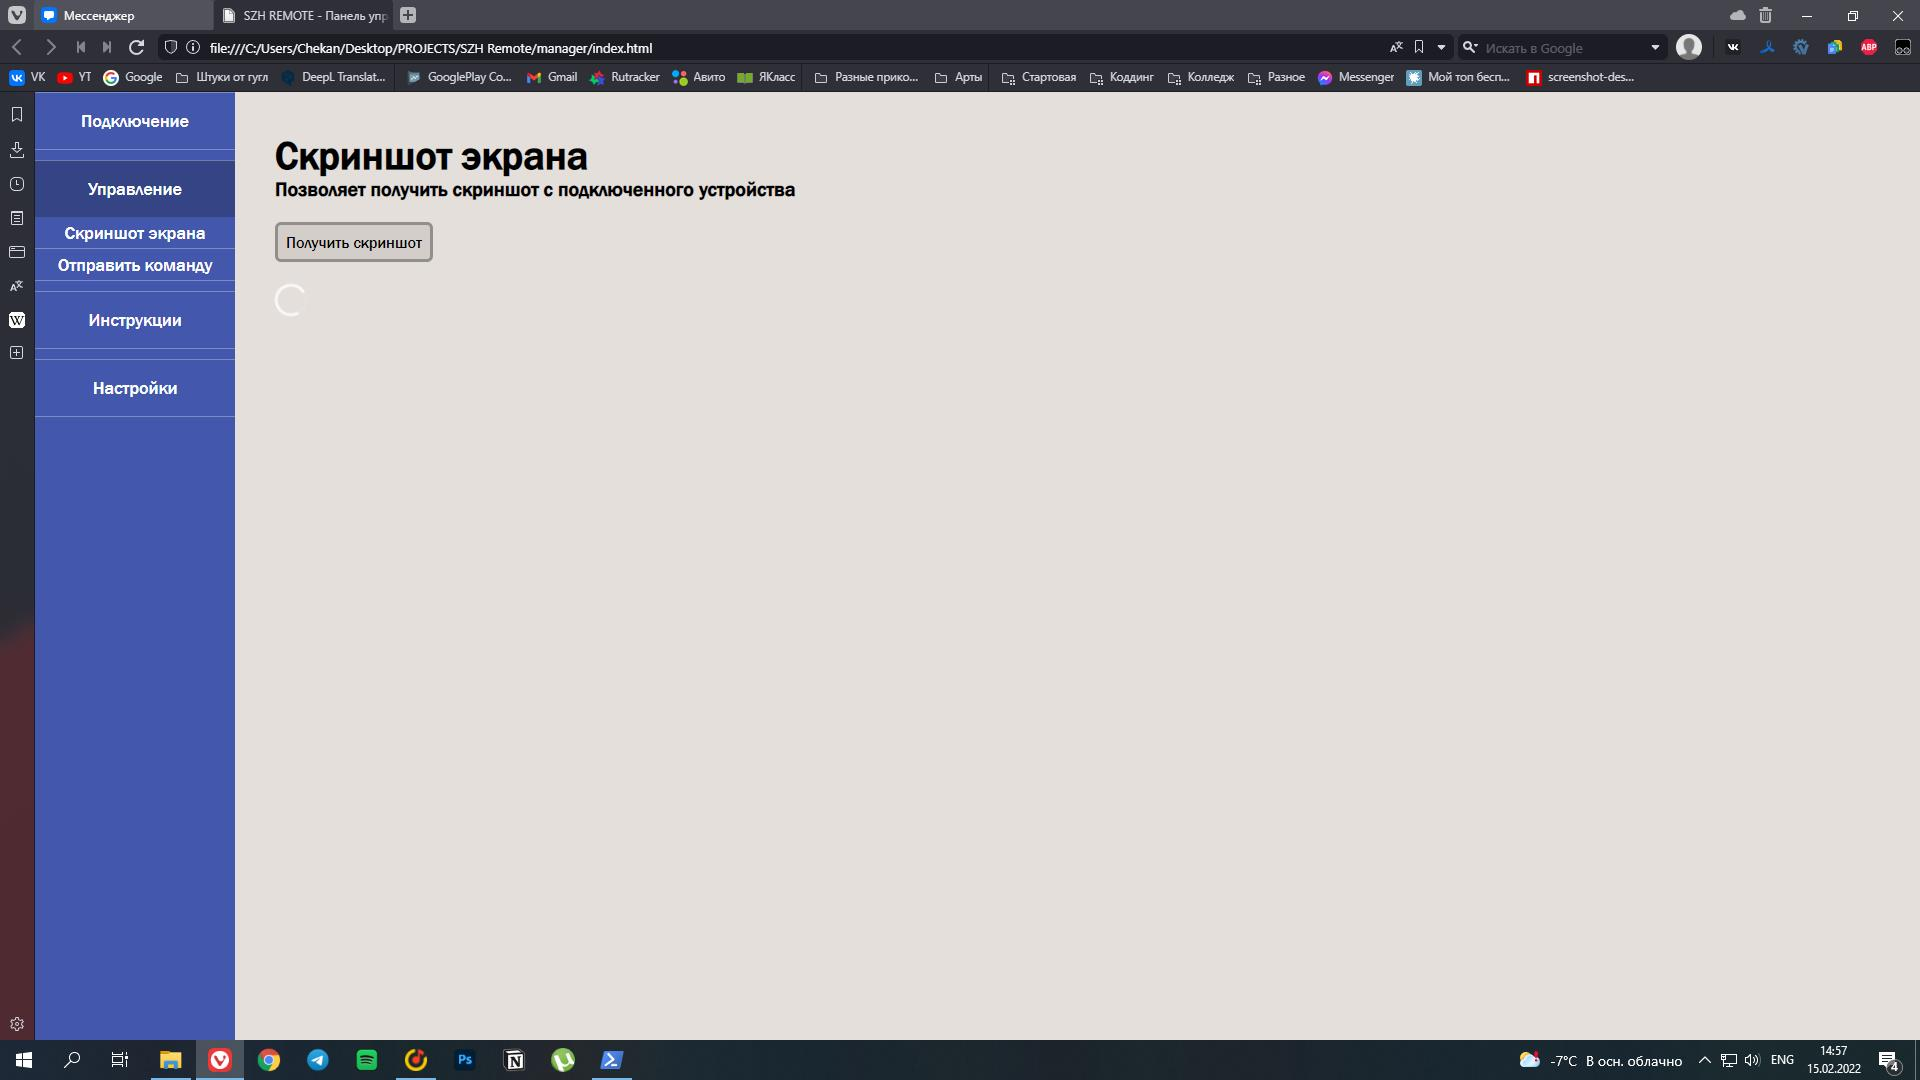
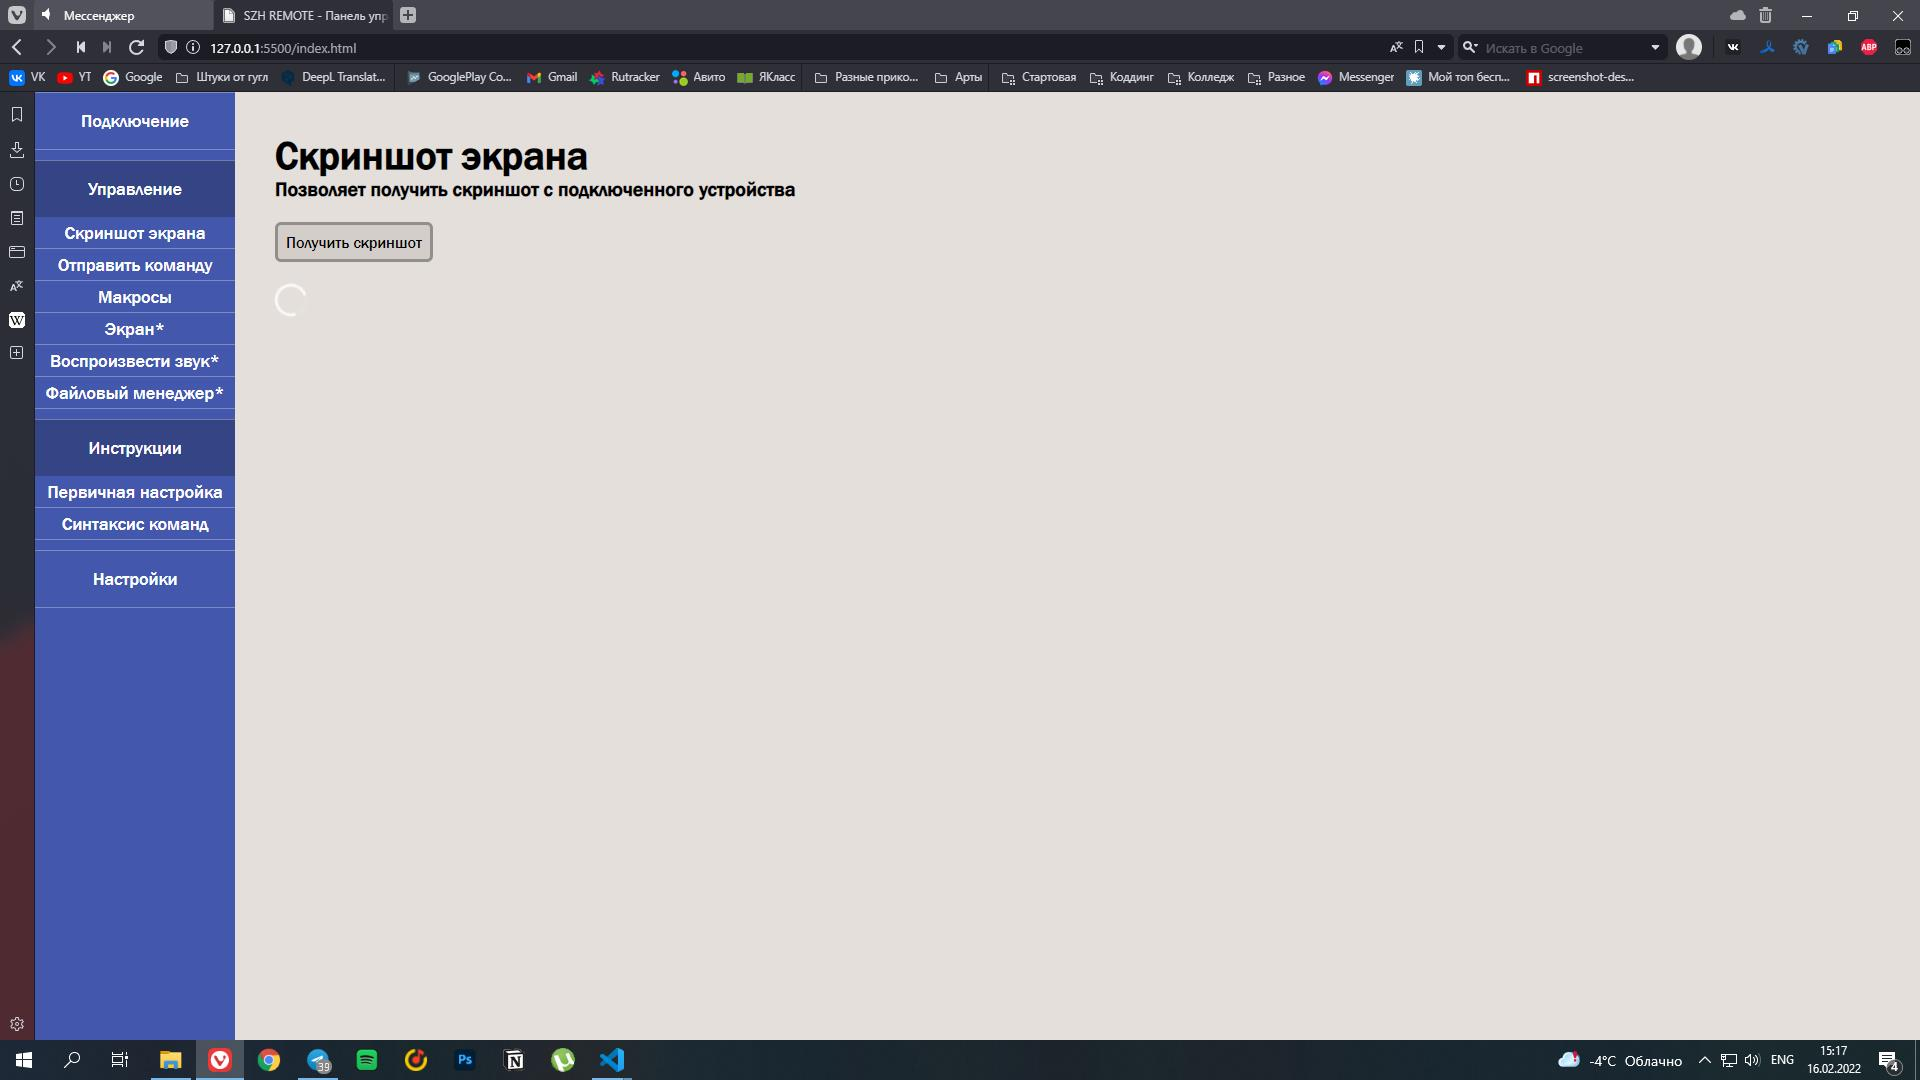
Второй залив

diff --git a/manager/instructions/syntax.html b/manager/instructions/syntax.html
@@ -1,0 +1,63 @@
+<style>
+    html{
+        font-family: 'Franklin Gothic Medium', 'Arial Narrow', Arial, sans-serif;
+        margin: 20px;
+    }
+
+    h1, h2, h3, h4, p{
+        padding: 0;
+        margin: 0;
+    }
+
+    .cmddemo{
+        background-color: black;
+        font-family: 'Lucida Sans', 'Lucida Sans Regular', 'Lucida Grande', 'Lucida Sans Unicode', Geneva, Verdana, sans-serif;
+        color: white;
+        margin-top: 10px;
+        margin-bottom: 10px;
+        padding-left: 10px;
+    }
+
+    .commandBlock{
+        background-color: rgba(0, 0, 0, 0.5);
+        font-family: 'Lucida Sans', 'Lucida Sans Regular', 'Lucida Grande', 'Lucida Sans Unicode', Geneva, Verdana, sans-serif;
+        color: white;
+    }
+</style>
+
+<html>
+    <body>
+        <h1>Синтаксис команд</h1>
+        <h2>Позволяет писать свои собственные макросы</h2>
+        <br>
+        <h3>Содержвание:</h3>
+        <a href="#features">Возможности макросов</a><br>
+        <a href="#syntax">Синтаксис</a><br>
+        <a href="#examples">Примеры написания макросов</a><br>
+        <br><br><br>
+        <a name="features"></a>
+        <h2>Возможности макросов</h2>
+        <p>Еще не готово</p>
+        <br>
+        <a name="syntax"></a>
+        <h2>Синтаксис</h2>
+        <p>Построение команды происходит в одну строку, и не может быть разделена на две и более, конструкция команды: <span class="commandBlock">method: "option"</span></p>
+        <p>Что такое <b>method</b>:</p>
+        <p>method это ничто иное как название требуего метода, который будет исполнять наш сервер, например написав <span class="commandBlock">cmd: "start cmd"</span> мы скажем нашему серверу что нам нужно обратиться к терминалу нашей системы, и выполнить введенную команду, в нашем случае откроется окно терминала системы</p>
+        <p>На данный момент сервер имеет поддержку следующих методов:</p>
+        <details>
+            <summary class="detailsButton">Методы</summary>
+            <p><b>cmd</b> - сервер будет обращаться к терминалу системы и выполнять команду, заданную в <b>option</b>. Пример: <span class="commandBlock">cmd: "start cmd"</span></p>
+            <p><b>pressKey</b> - сервер выполнит короткое нажатие клавиши заданную в <b>option</b>. Пример: <span class="commandBlock">pressKey: "enter"</span>, cписок кнопок доступен в <a href="http://robotjs.io/docs/syntax" target="_blank">документации robotJS</a></p>
+            <p><b>shortcut</b> - аналогичный pressKey метод, однако выполняет сочетание клавишь заданных в <b>option</b> клавиши чередуются через запятую. Пример: <span class="commandBlock">shortcut: "control,alt,delete"</span></p>
+            <p><b>type</b> - сервер начнет имитировать нажатия клавишь и набирать текст заданный в <b>option</b>. Пример: <span class="commandBlock">type: "hello world!"</span></p>
+        </details>
+        <p>Что такое <b>option</b>:</p>
+        <p>option это обыкновенная строка, которую мы задаем опционально нашему методу, если строка не нужна, читаться она не будет.</p>
+        <br>
+        <a name="examples"></a>
+        <h2>Примеры написания макросов</h2>
+        <p>Еще не готово</p>
+        <br>
+        </body>
+</html>

diff --git a/manager/index.html b/manager/index.html
@@ -29,7 +29,7 @@
         <details class="detailsMenu">
             <summary class="detailsButton">Инструкции</summary>
             <input type="button" value="Первичная настройка" class="menuButton" onclick="openAlert('instructions/first_time.html','Первичная настройка')">
-            <input type="button" value="Синтаксис команд" class="menuButton">
+            <input type="button" value="Синтаксис команд" class="menuButton" onclick="openAlert('instructions/syntax.html','Синтаксис команд')">
         </details>
 
         <details class="detailsMenu">
@@ -45,13 +45,11 @@
     <div class="page" id="page_devices">
         <div class="content">
             <h1>Устройства</h1>
-            <h4>На данный момент вы подключены к: <span>Нет активного подключения</span></h4>
+            <h4>Статус подключения: <span id="connectStatus">Нет активного подключения</span></h4>
             <br>
-            <p>Доступные для подключения устройства:</p>
-            <div class="tableView">
-                <div class="item">Устройство 1</div>
-                <div class="item selected">Устройство 2</div>
-            </div>
+            <p>Настройки для подключения:</p>
+            <input type="text" class="textbox" placeholder="Адресс подключения" id="adress">
+            <input type="button" value="Подключиться" class="button" onclick="connectIP()">
         </div>
     </div>
 

diff --git a/manager/core.js b/manager/core.js
@@ -1,6 +1,42 @@
+// let ConnectingData = {
+//     ip: "192.168.0.172" ,
+//     port: "6600",
+// }
+
 let ConnectingData = {
-    ip: "192.168.0.172" ,
-    port: "6600",
+    ip: "" ,
+    port: "",
+}
+
+window.onload = function() {
+    if(localStorage.lastConnectedIP != undefined){
+        ConnectingData.ip = localStorage.lastConnectedIP;
+        ConnectingData.port = localStorage.lastConnectedPORT;
+    
+        nextConnectIP(ConnectingData.ip,ConnectingData.port);
+    }
+}
+
+function nextConnectIP(ip,port) {
+    ConnectingData.ip = ip;
+    ConnectingData.port = port;
+
+    document.getElementById("connectStatus").innerText = "Ошибка подключения к "+ConnectingData.ip+":"+ConnectingData.port;
+    $.ajax({
+        crossDomain: true,
+        url: "http://"+ConnectingData.ip+':'+ConnectingData.port+"/",      
+        method: 'post',     
+        dataType: 'json',         
+        data: {method: 'connecting'},     
+        success: (function (response) {
+            let adress = document.getElementById("connectStatus").innerText = "Успешно подключен к "+ConnectingData.ip+":"+ConnectingData.port;
+            localStorage.setItem("lastConnectedIP",ConnectingData.ip);
+            localStorage.setItem("lastConnectedPORT",ConnectingData.port);
+        }),
+        error: function (error) {
+            document.getElementById("connectStatus").innerText = "Ошибка подключения к "+ConnectingData.ip+":"+ConnectingData.port;
+        }
+    });
 }
 
 function getScreenshot() {

diff --git a/server/main.js b/server/main.js
@@ -35,6 +35,8 @@ app.post("/", urlencodedParser, async function (request, response) {
         
         if(request.body.option == "cmd"){
             response.json({msg: await CMDcommandRunner(request.body.option2)});
+        } else if (request.body.option == "pressKey"){
+            response.json({msg: await pressKey(request.body.option2)});
         } else if (request.body.option == "shortcut"){
             response.json({msg: await shortcut(request.body.option2)});
         }
@@ -73,13 +75,30 @@ async function CMDcommandRunner(command) {
 async function shortcut(command) {
     console.log("Выполнение комманды 2/2");
 
-    let promise = new Promise((resolve, reject) => {
-        
-        robot.keyTap(command);
-        resolve(error.message)
+    let command_cut = command.split(",");
 
+    console.log(JSON.stringify(command_cut));
+
+    let promise = new Promise((resolve, reject) => {
+        let key = command_cut[command_cut.length-1];
+        command_cut.pop();
+
+        robot.keyTap(key, command_cut);
+
+        resolve("OK")
     });
     
+    return await promise;
+}
+
+async function pressKey(command) {
+    console.log("Выполнение комманды 2/2");
+
+    let promise = new Promise((resolve, reject) => {
+        robot.keyTap(command);
+        resolve("OK")
+    });
+
     return await promise;
 }
 

diff --git a/manager/interface.js b/manager/interface.js
@@ -25,3 +25,10 @@ function openAlert(url, name){
 function closeAlert(){
     document.getElementById("alert").style.display = "none";
 }
+
+function connectIP() {
+    let adress = document.getElementById("adress").value;
+    let ip = adress.split(":")[0];
+    let port = adress.split(":")[1];
+    nextConnectIP(ip,port);
+}
